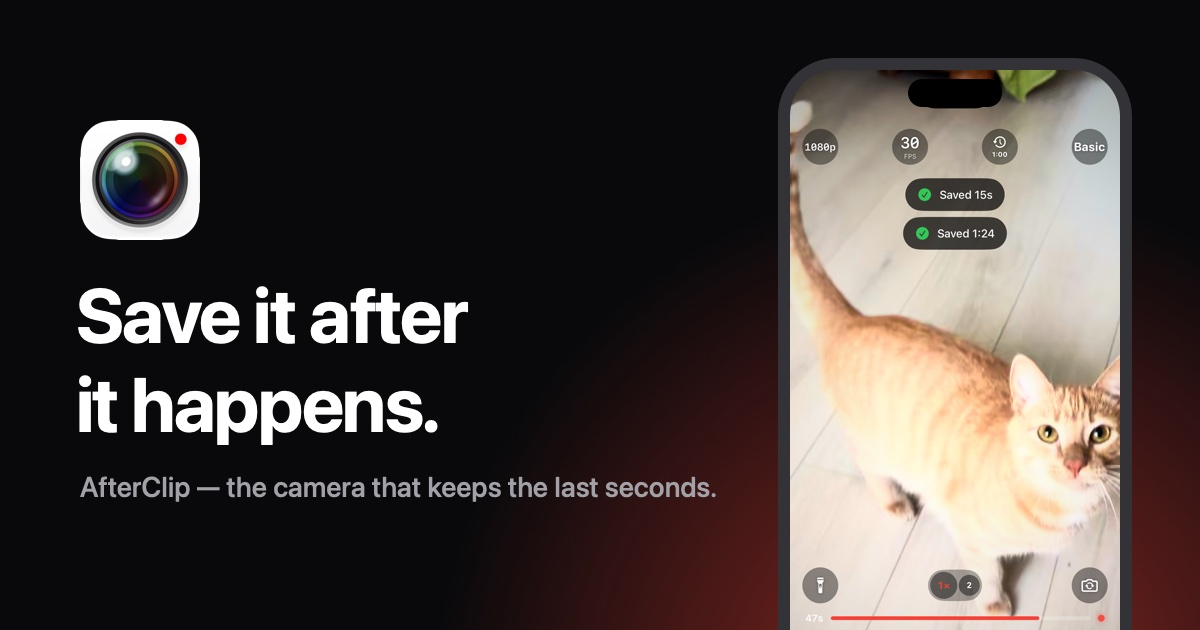
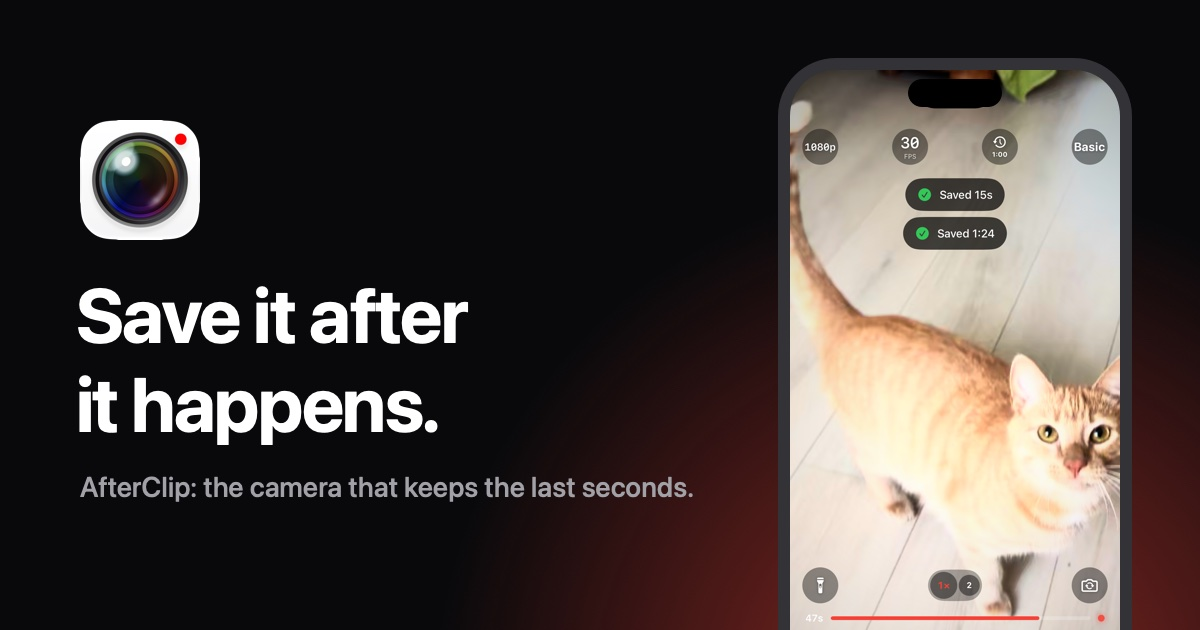
Plainer punctuation in titles, the Russian policy and the link preview

Changed region(s): [[0.1542, 0.754, 0.5858, 0.8143]]

diff --git a/ru/privacy.html b/ru/privacy.html
@@ -3,7 +3,7 @@
 <head>
   <meta charset="utf-8">
   <meta name="viewport" content="width=device-width, initial-scale=1, viewport-fit=cover">
-  <title>Политика конфиденциальности — AfterClip</title>
+  <title>Политика конфиденциальности AfterClip</title>
   <meta name="description" content="AfterClip не собирает никаких данных. Ваше видео не покидает ваши устройства.">
   <meta name="theme-color" content="#050506">
   <link rel="icon" href="../assets/img/icon-32.png" sizes="32x32">
@@ -15,7 +15,7 @@
   <link rel="apple-touch-icon" href="../assets/img/icon-180.png">
   <meta property="og:type" content="article">
   <meta property="og:locale" content="ru_RU">
-  <meta property="og:title" content="AfterClip — Политика конфиденциальности">
+  <meta property="og:title" content="Политика конфиденциальности AfterClip">
   <meta property="og:description" content="AfterClip не собирает никаких данных. Ваше видео не покидает ваши устройства.">
   <meta property="og:url" content="https://stratomediagroupltd.github.io/afterclip/ru/privacy.html">
   <meta property="og:image" content="https://stratomediagroupltd.github.io/afterclip/assets/img/og.jpg">
@@ -391,21 +391,21 @@ background: var(--accent);
         <p class="doc__summary"><svg aria-hidden="true"><use href="#i-lock"/></svg>AfterClip не собирает никаких данных. Ваше видео не покидает ваши устройства.</p>
       </header>
 
-      <p>Здесь объясняется, что AfterClip и этот сайт делают с вашими данными. «Мы» — те, кто их создаёт; написать нам можно в любое время по адресу в конце страницы.</p>
+      <p>Здесь объясняется, что AfterClip и этот сайт делают с вашими данными. «Мы» здесь означает тех, кто их создаёт. Написать нам можно в любое время по адресу в конце страницы.</p>
 
       <h2>Что мы собираем</h2>
-      <p>Через приложение — ничего. В AfterClip нет аккаунтов, аналитики, рекламы, отслеживания и сторонних SDK. Мы не получаем ваше видео, звук, фото, контакты, геопозицию, идентификаторы устройства или данные об использовании.</p>
+      <p>Через приложение мы не собираем ничего. В AfterClip нет аккаунтов, аналитики, рекламы, отслеживания и сторонних SDK. Мы не получаем ваше видео, звук, фото, контакты, геопозицию, идентификаторы устройства или данные об использовании.</p>
 
       <h2>Как приложение использует возможности устройства</h2>
       <ul>
-        <li><strong>Камера и микрофон.</strong> Пока AfterClip открыт, он хранит последние секунды видео и звука в кольцевом буфере — в собственном хранилище приложения на iPhone, постоянно перезаписывая его. Поэтому момент можно сохранить уже после того, как он случился. Буфер остаётся на вашем iPhone.</li>
+        <li><strong>Камера и микрофон.</strong> Пока AfterClip открыт, он хранит последние секунды видео и звука в кольцевом буфере в собственном хранилище приложения на iPhone и постоянно перезаписывает его. Поэтому момент можно сохранить уже после того, как он случился. Буфер остаётся на вашем iPhone.</li>
         <li><strong>Фото.</strong> При сохранении клип добавляется в медиатеку «Фото». Если вы дадите полный доступ, AfterClip сможет удалять собственные клипы, которые уже содержатся в более новом; iOS попросит подтвердить каждое удаление.</li>
         <li><strong>Apple Watch.</strong> Приложение для часов показывает превью и отправляет команды, например «Сохранить». Они передаются напрямую между iPhone и Apple Watch через WatchConnectivity от Apple и не отправляются нам.</li>
         <li><strong>Экран блокировки, Пункт управления и Быстрые команды.</strong> Открывают камеру или сохраняют клип на устройстве. Никуда ничего не отправляется.</li>
       </ul>
 
       <h2>Покупки</h2>
-      <p>Покупки в AfterClip совершаются через App Store. Платёж обрабатывает Apple; мы не видим ваших платёжных данных. Приложение спрашивает у Apple, какие покупки у вас есть, — на этот обмен распространяется <a href="https://www.apple.com/legal/privacy/">политика конфиденциальности Apple</a>.</p>
+      <p>Покупки в AfterClip совершаются через App Store. Платёж обрабатывает Apple; мы не видим ваших платёжных данных. Приложение спрашивает у Apple, какие покупки у вас есть; на этот обмен распространяется <a href="https://www.apple.com/legal/privacy/">политика конфиденциальности Apple</a>.</p>
 
       <h2>Единственный сетевой запрос</h2>
       <p>Для предложений, зависящих от даты, приложение узнаёт у apple.com текущую дату, чтобы перевод часов на устройстве не сдвигал их. Запрос не содержит личных данных и идентификаторов.</p>
@@ -413,13 +413,13 @@ background: var(--accent);
       <h2>Этот сайт</h2>
       <p>Сайт не использует cookie и ничего не хранит на вашем устройстве. Он размещён на GitHub Pages: как любой веб-сервер, GitHub получает ваш IP-адрес, когда вы открываете страницу, и хранит его в журналах для безопасности. Это описано в <a href="https://docs.github.com/en/site-policy/privacy-policies/github-general-privacy-statement">заявлении GitHub о конфиденциальности</a>.</p>
       <p>Посещения мы считаем с помощью Cloudflare Web Analytics: учитываются открытая страница, сайт, с которого вы пришли, браузер, тип устройства и страна. Цифровые отпечатки не используются, и ничто из записанного не позволяет узнать вас или проследить за вами на других сайтах. На этот сервис распространяется <a href="https://www.cloudflare.com/privacypolicy/">политика конфиденциальности Cloudflare</a>.</p>
-      <p>Основание — наш законный интерес в безопасной работе сайта и в подсчёте посещений (статья 6(1)(f) GDPR). GitHub и Cloudflare находятся в США.</p>
+      <p>Мы делаем это на основании нашего законного интереса в безопасной работе сайта и в подсчёте посещений (статья 6(1)(f) GDPR). GitHub и Cloudflare находятся в США.</p>
 
       <h2>Если вы нам пишете</h2>
       <p>Если вы пишете нам на почту, мы получаем ваш адрес и всё, что вы присылаете, и используем это только для ответа. Мы храним переписку, только пока она нужна, чтобы вам помочь. Почтовый ящик предоставляет Google (Gmail).</p>
 
       <h2>Ваши права</h2>
-      <p>По GDPR вы можете запросить копию ваших персональных данных, которые у нас есть, попросить исправить или удалить их, ограничить их использование или возразить против него. Поскольку приложение ничего не собирает, единственные ваши данные, которые могут у нас быть, — это письмо, которое вы нам прислали. Напишите нам по адресу ниже. Вы также можете подать жалобу в орган по защите данных в вашей стране.</p>
+      <p>По GDPR вы можете запросить копию ваших персональных данных, которые у нас есть, попросить исправить или удалить их, ограничить их использование или возразить против него. Поскольку приложение ничего не собирает, из ваших данных у нас может быть только письмо, которое вы нам прислали. Напишите нам по адресу ниже. Вы также можете подать жалобу в орган по защите данных в вашей стране.</p>
 
       <h2>Дети</h2>
       <p>AfterClip ни у кого не собирает данных, в том числе у детей.</p>
@@ -443,7 +443,7 @@ background: var(--accent);
         <a href="mailto:stratomediagroupcompany@gmail.com">Поддержка</a>
         <a href="https://www.instagram.com/afterclipapp/" rel="me">Instagram</a>
       </nav>
-      <p class="footer__legal">© 2026 AfterClip. Apple, логотип Apple, iPhone и Apple Watch — товарные знаки Apple Inc., зарегистрированные в США и других странах. App Store — знак обслуживания Apple Inc.</p>
+      <p class="footer__legal">© 2026 AfterClip. Apple, логотип Apple, iPhone и Apple Watch являются товарными знаками Apple Inc., зарегистрированными в США и других странах. App Store является знаком обслуживания Apple Inc.</p>
     </div>
   </footer>
 </body>

diff --git a/index.html b/index.html
@@ -3,7 +3,7 @@
 <head>
   <meta charset="utf-8">
   <meta name="viewport" content="width=device-width, initial-scale=1, viewport-fit=cover">
-  <title>AfterClip — Save it after it happens</title>
+  <title>AfterClip: Save it after it happens</title>
   <meta name="description" content="AfterClip is the iPhone camera that's always recording the last seconds. When something great happens, tap Save and keep the moment you almost missed. 4K HDR, a 30-minute rewind and an Apple Watch remote.">
   <meta name="theme-color" content="#050506">
   <meta name="color-scheme" content="dark">
@@ -16,7 +16,7 @@
   <!-- <meta name="apple-itunes-app" content="app-id={{APP_ID}}"> -->
   <meta property="og:type" content="website">
   <meta property="og:site_name" content="AfterClip">
-  <meta property="og:title" content="AfterClip — Save it after it happens">
+  <meta property="og:title" content="AfterClip: Save it after it happens">
   <meta property="og:description" content="The iPhone camera that keeps the last seconds, so you can save the moment after it happens.">
   <!-- Link previews need absolute URLs: https://stratomediagroupltd.github.io/afterclip/ is where the site lives,
        e.g. https://yourname.github.io/afterclip/ -->
@@ -25,7 +25,7 @@
   <meta property="og:image:width" content="1200">
   <meta property="og:image:height" content="630">
   <meta name="twitter:card" content="summary_large_image">
-  <meta name="twitter:title" content="AfterClip — Save it after it happens">
+  <meta name="twitter:title" content="AfterClip: Save it after it happens">
   <meta name="twitter:description" content="The iPhone camera that keeps the last seconds, so you can save the moment after it happens.">
   <meta name="twitter:image" content="https://stratomediagroupltd.github.io/afterclip/assets/img/og.jpg">
   <link rel="preload" as="image" type="image/webp" fetchpriority="high"

diff --git a/privacy.html b/privacy.html
@@ -3,7 +3,7 @@
 <head>
   <meta charset="utf-8">
   <meta name="viewport" content="width=device-width, initial-scale=1, viewport-fit=cover">
-  <title>Privacy Policy — AfterClip</title>
+  <title>AfterClip Privacy Policy</title>
   <meta name="description" content="AfterClip collects no data. Your video never leaves your devices.">
   <meta name="theme-color" content="#050506">
   <link rel="icon" href="assets/img/icon-32.png" sizes="32x32">
@@ -14,7 +14,7 @@
   <link rel="alternate" hreflang="x-default" href="https://stratomediagroupltd.github.io/afterclip/privacy.html">
   <link rel="apple-touch-icon" href="assets/img/icon-180.png">
   <meta property="og:type" content="article">
-  <meta property="og:title" content="AfterClip — Privacy Policy">
+  <meta property="og:title" content="AfterClip Privacy Policy">
   <meta property="og:description" content="AfterClip collects no data. Your video never leaves your devices.">
   <meta property="og:url" content="https://stratomediagroupltd.github.io/afterclip/privacy.html">
   <meta property="og:image" content="https://stratomediagroupltd.github.io/afterclip/assets/img/og.jpg">

diff --git a/assets/js/match.js b/assets/js/match.js
@@ -1,4 +1,4 @@
-// match.js — "The whole match. Except the goal." Two phones play the same
+// match.js: "The whole match. Except the goal." Two phones play the same
 // penalty: one clip, which the Camera's screen draws from AfterClip's
 // (mirror.js), so the two are always on the same frame. The one filming everything has been recording for 89:40 when its
 // storage runs out, a beat before the kick: the Camera stops while the game

diff --git a/404.html b/404.html
@@ -3,7 +3,7 @@
 <head>
   <meta charset="utf-8">
   <meta name="viewport" content="width=device-width, initial-scale=1, viewport-fit=cover">
-  <title>Not found — AfterClip</title>
+  <title>AfterClip: page not found</title>
   <meta name="robots" content="noindex">
   <meta name="theme-color" content="#050506">
   <!-- GitHub Pages serves this page at any missing path, so its links are

diff --git a/assets/js/scenes.js b/assets/js/scenes.js
@@ -1,4 +1,4 @@
-// scenes.js — the scroll-driven stories: the manifesto lit word by word,
+// scenes.js: the scroll-driven stories: the manifesto lit word by word,
 // the film tape where scrolling is time, and two saves melting into one clip.
 
 import { $, $$, onScroll, onResize, sceneBox, pinnedProgress, progress, easeInOut, scrub, watchVisibility } from "./motion.js";

diff --git a/assets/js/saves.js b/assets/js/saves.js
@@ -1,4 +1,4 @@
-// saves.js — "Save" from anywhere: the shutter, a key, a game controller,
+// saves.js: "Save" from anywhere: the shutter, a key, a game controller,
 // a device chip or the watch. Each save goes to whoever shows it best (the
 // hero phone while it's on screen); otherwise a toast drops in at the top.
 

diff --git a/assets/css/home.css b/assets/css/home.css
@@ -1,5 +1,5 @@
 /*
-  AfterClip — the landing page, first half: the devices, the hero, the
+  AfterClip: the landing page, first half: the devices, the hero, the
   manifesto, the tape and the buffer ring. Every scene's resting state is its
   finished state; the script only adds motion on top (see assets/js).
 */

diff --git a/assets/js/motion.js b/assets/js/motion.js
@@ -1,4 +1,4 @@
-// motion.js — the shared motion kit: maths, a damped scroll value every
+// motion.js: the shared motion kit: maths, a damped scroll value every
 // scene reads from, scene progress, and the one-shot reveals.
 
 export const $ = (selector, root = document) => root.querySelector(selector);

diff --git a/assets/js/demos.js b/assets/js/demos.js
@@ -1,4 +1,4 @@
-// demos.js — the hands-on bits: the buffer ring and the dial that sizes it,
+// demos.js: the hands-on bits: the buffer ring and the dial that sizes it,
 // and the privacy section's zeros.
 
 import { $, $$, clamp, reducedMotion, scrub, setText, watchVisibility } from "./motion.js";

diff --git a/assets/css/base.css b/assets/css/base.css
@@ -1,5 +1,5 @@
 /*
-  AfterClip — shared foundations for every page: tokens, type, buttons,
+  AfterClip: shared foundations for every page: tokens, type, buttons,
   the nav, the footer, reveals, toasts and the film.
   The look follows the App Store slides: near-black, Replay Red glow, SF Pro.
 */

diff --git a/assets/js/specs.js b/assets/js/specs.js
@@ -1,4 +1,4 @@
-// specs.js — the camera section. The phone stays put while the list goes by
+// specs.js: the camera section. The phone stays put while the list goes by
 // (on small screens, while you swipe its cards), and shows the app's own
 // screen for whichever spec you're reading.
 
